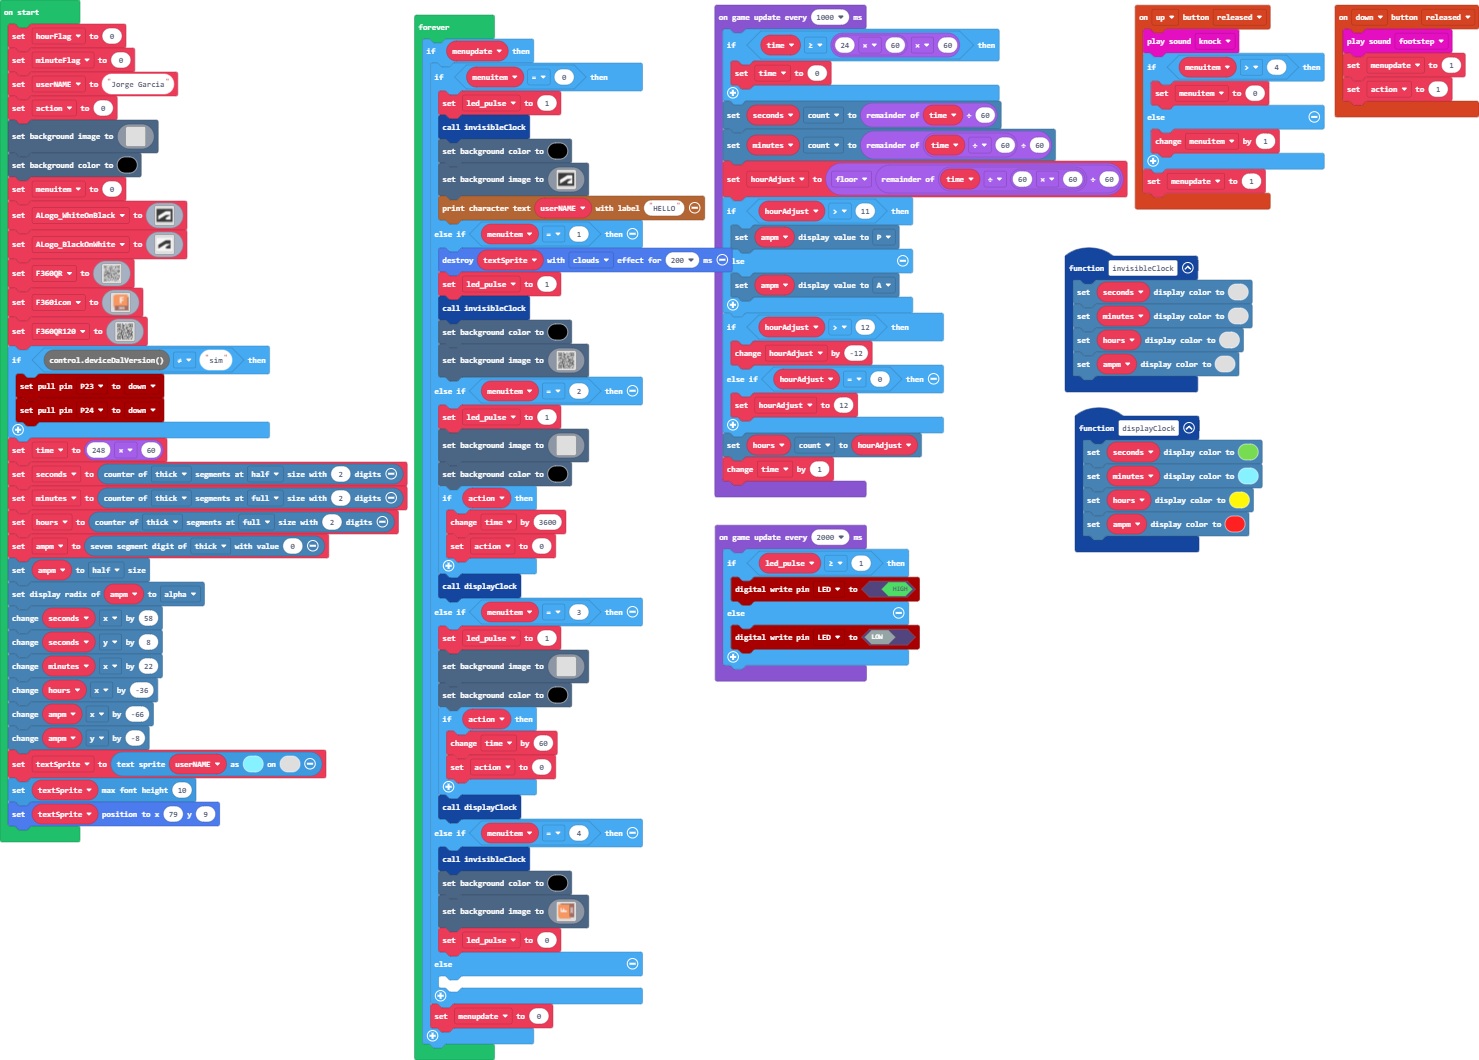
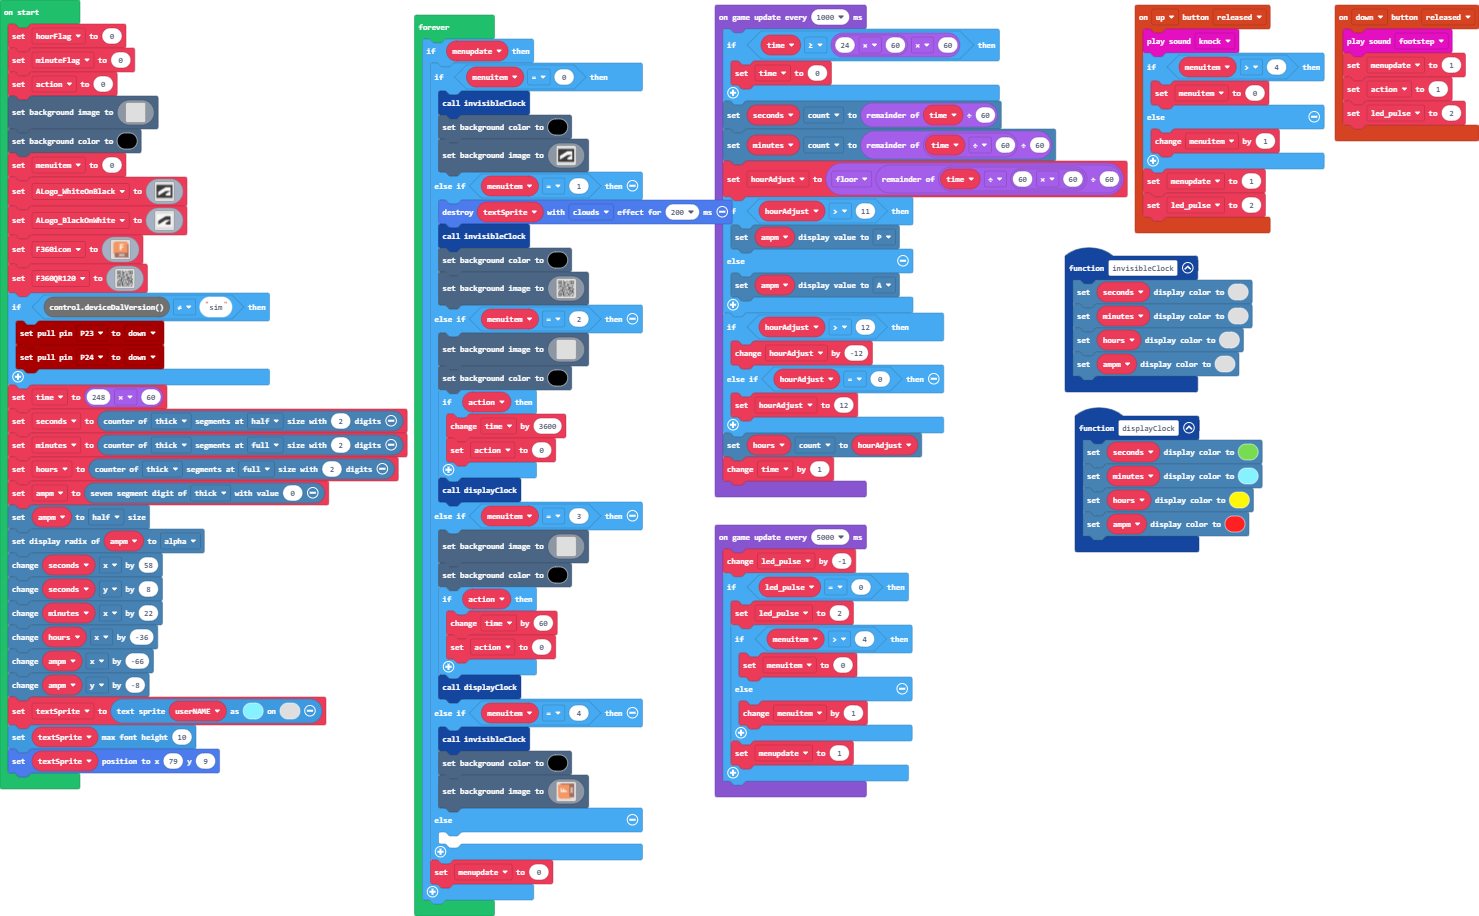
Update main.blocks, main.ts

diff --git a/main.ts b/main.ts
@@ -5,6 +5,7 @@ controller.down.onEvent(ControllerButtonEvent.Released, function () {
     music.footstep.play()
     menupdate = 1
     action = 1
+    led_pulse = 2
 })
 controller.up.onEvent(ControllerButtonEvent.Released, function () {
     music.knock.play()
@@ -14,6 +15,7 @@ controller.up.onEvent(ControllerButtonEvent.Released, function () {
         menuitem += 1
     }
     menupdate = 1
+    led_pulse = 2
 })
 function invisibleClock () {
     seconds.setDigitColor(0)
@@ -30,6 +32,7 @@ function displayClock () {
 let hourAdjust = 0
 let led_pulse = 0
 let menupdate = 0
+let userNAME = ""
 let ampm: SevenSegDigit = null
 let hours: DigitCounter = null
 let minutes: DigitCounter = null
@@ -38,14 +41,12 @@ let menuitem = 0
 let action = 0
 let hourFlag = 0
 let minuteFlag = 0
-let userNAME = "Jorge Garcia"
 action = 0
 scene.setBackgroundImage(assets.image`blank`)
 scene.setBackgroundColor(15)
 menuitem = 0
 let ALogo_WhiteOnBlack = assets.image`ALogo_WhiteOnBlack`
 let ALogo_BlackOnWhite = assets.image`ALogo_BlackOnWhite`
-let F360QR = assets.image`F360QR`
 let F360icon = assets.image`f360icon`
 let F360QR120 = assets.image`F360QR120`
 if (control.deviceDalVersion() != "sim") {
@@ -68,11 +69,16 @@ ampm.y += -8
 let textSprite = textsprite.create(userNAME, 0, 9)
 textSprite.setMaxFontHeight(10)
 textSprite.setPosition(79, 9)
-game.onUpdateInterval(2000, function () {
-    if (led_pulse >= 1) {
-        pins.LED.digitalWrite(true)
-    } else {
-        pins.LED.digitalWrite(false)
+game.onUpdateInterval(5000, function () {
+    led_pulse += -1
+    if (led_pulse == 0) {
+        led_pulse = 2
+        if (menuitem > 4) {
+            menuitem = 0
+        } else {
+            menuitem += 1
+        }
+        menupdate = 1
     }
 })
 game.onUpdateInterval(1000, function () {
@@ -98,19 +104,15 @@ game.onUpdateInterval(1000, function () {
 forever(function () {
     if (menupdate) {
         if (menuitem == 0) {
-            led_pulse = 1
             invisibleClock()
             scene.setBackgroundColor(15)
             scene.setBackgroundImage(assets.image`ALogo_WhiteOnBlack`)
-            story.printCharacterText(userNAME, "HELLO")
         } else if (menuitem == 1) {
             textSprite.destroy(effects.clouds, 200)
-            led_pulse = 1
             invisibleClock()
             scene.setBackgroundColor(15)
             scene.setBackgroundImage(assets.image`F360QR120`)
         } else if (menuitem == 2) {
-            led_pulse = 1
             scene.setBackgroundImage(assets.image`blank`)
             scene.setBackgroundColor(15)
             if (action) {
@@ -119,7 +121,6 @@ forever(function () {
             }
             displayClock()
         } else if (menuitem == 3) {
-            led_pulse = 1
             scene.setBackgroundImage(assets.image`blank`)
             scene.setBackgroundColor(15)
             if (action) {
@@ -131,7 +132,6 @@ forever(function () {
             invisibleClock()
             scene.setBackgroundColor(15)
             scene.setBackgroundImage(assets.image`f360icon90`)
-            led_pulse = 0
         } else {
         	
         }
